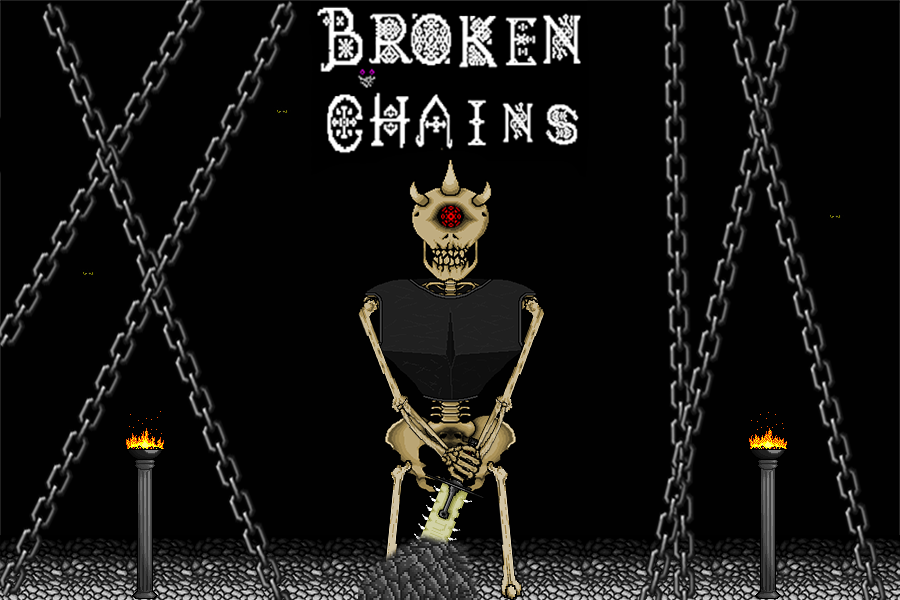
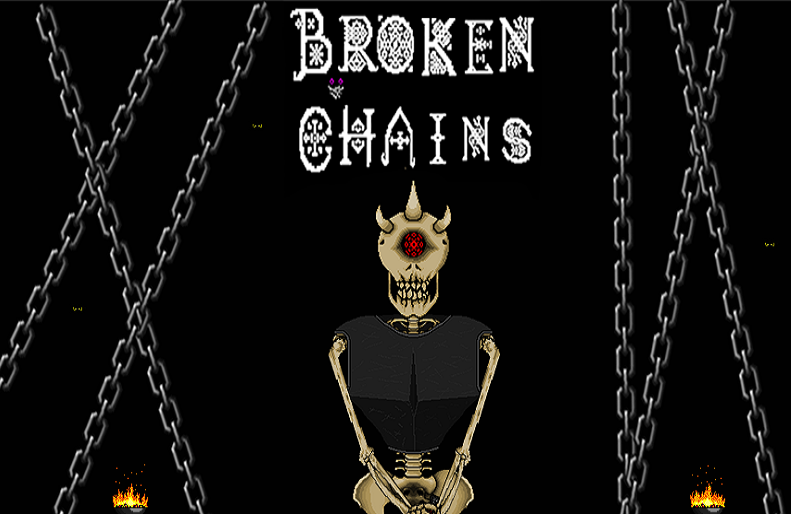
changes

diff --git a/javascript/slideshowBackground.js b/javascript/slideshowBackground.js
@@ -1,0 +1,46 @@
+function slideshowBackground(files, id, id2)
+{
+	var source = document.getElementById(id);
+	var buttons = document.createElement("div");
+	var index = 0;
+	this.timer;
+
+	this.slide = function()
+	{
+		if (index > files.length - 1)
+		{
+			index = 0;
+		}
+		for (var i = 0; i < files.length; i++)
+		{
+			buttons.getElementsByTagName("div")[i].className = "";
+		}
+		buttons.getElementsByTagName("div")[index].className = "active";
+		source.style.backgroundImage = "url(" + files[index] + ")";
+		index++;
+	}
+
+	if (id2 === undefined)
+    {
+        source.appendChild(buttons);
+    }
+    else
+    {
+        document.getElementById(id2).appendChild(buttons);        
+    }
+
+	for (var i = 0; i < files.length; i++)
+	{
+		var hold = document.createElement("div");
+		hold.id = String(i);
+		hold.onclick = function()
+		{
+			index = Number(this.id);
+		}
+		hold.addEventListener("click", this.slide);
+		buttons.appendChild(hold);
+	}
+
+	this.slide();
+	this.timer = setInterval(this.slide, 5000);
+}

diff --git a/css/main.css b/css/main.css
@@ -12,9 +12,11 @@ body
     font-family:'Roboto', sans-serif;
     background-image:url("../images/controller.jpg");
     background-repeat:no-repeat;
-    background-size:cover;
+    background-size:cover 60vh;
     background-attachment:fixed;
+    background-position:top center;
     overflow-x:hidden;
+    background-color:#000000;
 }
 h2
 {
@@ -157,17 +159,33 @@ footer a
 /*Id and Temp Styles*/
 #button
 {
+    display:none;
     width:300px;
     height:35px;
     background-color:rgba(13, 13, 13, 0.7);
     margin:auto;
+}
+#button > div
+{
+    width:100%;
     display:flex;
     justify-content:space-around;
+    height:100%;
 }
-#button div
+#button div div
 {
-    background-color:#999999;
+    background-color:#888888;
     height:15px;
     width:15px;
     align-self:center;
+    transition:background-color 0.5s;
+    cursor:pointer;
+}
+#header
+{
+    transition:background-image, 2s;
+}
+#button div div.active
+{
+    background-color:#ffffff;
 }

diff --git a/javascript/main.js b/javascript/main.js
@@ -1,0 +1,3 @@
+document.getElementById("button").style.display = "block";
+
+var slideshow = new slideshowBackground(["images/shutai.png", "images/bigposter.png"], "header", "button");

diff --git a/index.php b/index.php
@@ -14,8 +14,8 @@ include 'php/config.php';
         <meta name = "viewport" content = "width=device-width, initial-scale=1.0, minimum-scale=1.0" />
     </head>
     
-    <body>
-        <?php
+    <body id="header">
+        <!--?php
             if(isset($_SESSION["submission_results"])) {
                 if($_SESSION["submission_results"] == false && $_SESSION["submission_results"] != null) {
                     echo "<script>alert('An error occured. Please try again later.');</script>";
@@ -43,16 +43,13 @@ include 'php/config.php';
         }
             
         
-        ?>
+        ?-->
         
         <header>
             <div><span>Vendicant Games</span> <br />Trade Show</div>
         </header>
         
         <div id="button">
-            <div></div>
-            <div></div>
-            <div></div>
         </div>
         
         <main>
@@ -92,5 +89,8 @@ include 'php/config.php';
         <footer>
             <span>&copy; Vendicant Games, all rights reserved | Email Webmaster: <a href="mailto:noah.pikaart.wgd@gmail.com">noah.pikaart.wgd@gmail.com</a></span>
         </footer>
+        
+        <script src="javascript/slideshowBackground.js"></script>
+        <script src="javascript/main.js"></script>
     </body>
 </html>
